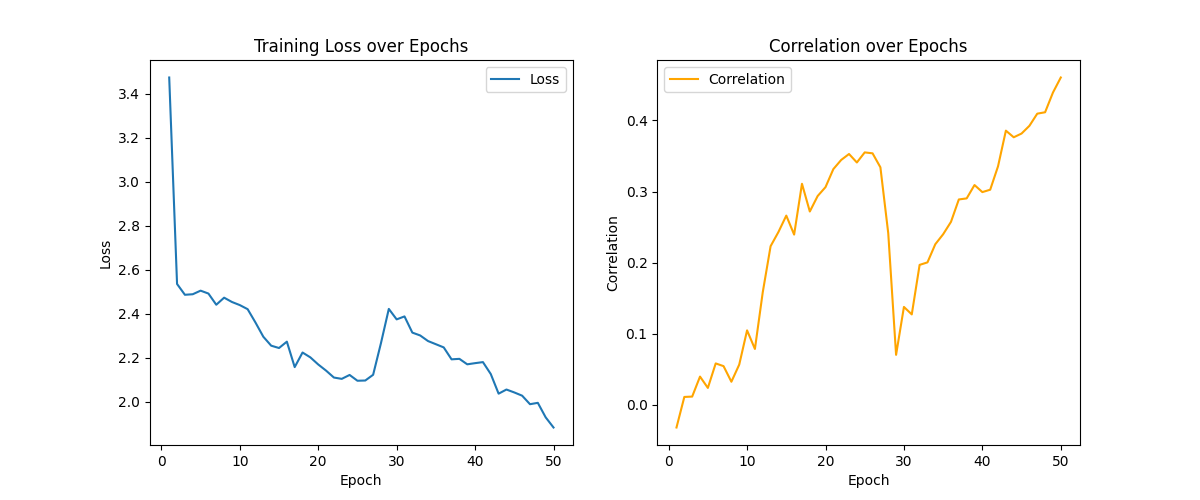
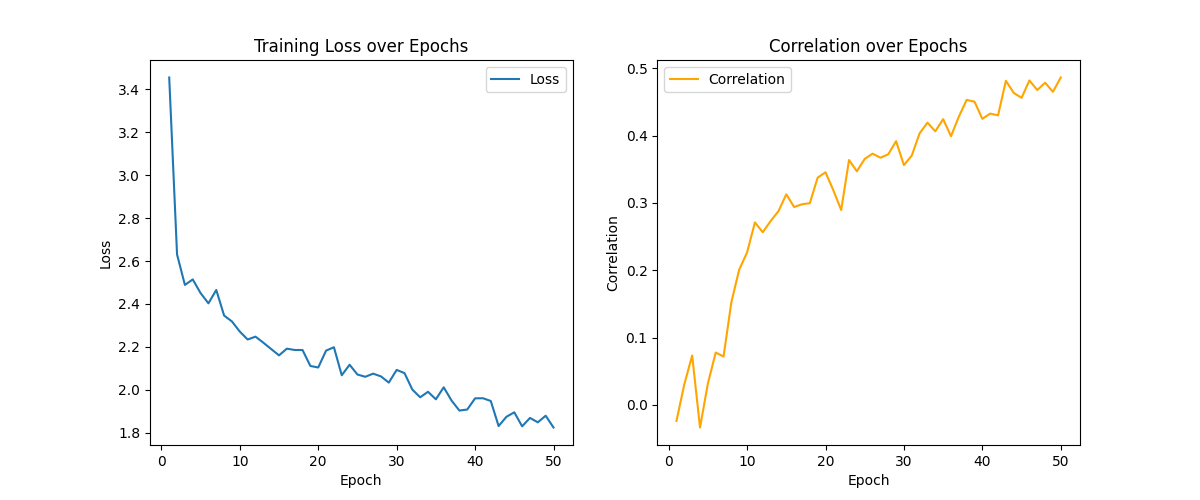
update vim

diff --git a/preprocessing_project.py b/preprocessing_project.py
@@ -600,7 +600,7 @@ def training_vim(train_x, train_y):
 
     # Create a TensorDataset and DataLoader
     dataset = TensorDataset(train_x_t, train_y_t)
-    train_loader = DataLoader(dataset, batch_size=1, shuffle=True)
+    train_loader = DataLoader(dataset, batch_size=2, shuffle=True)
 
     # Initialize the Vim model
     model = Vim(
@@ -613,7 +613,7 @@ def training_vim(train_x, train_y):
         image_size=286,
         patch_size=13,
         channels=1,
-        dropout=0.1,
+        dropout=0.5,
         depth=12,
     )
 
